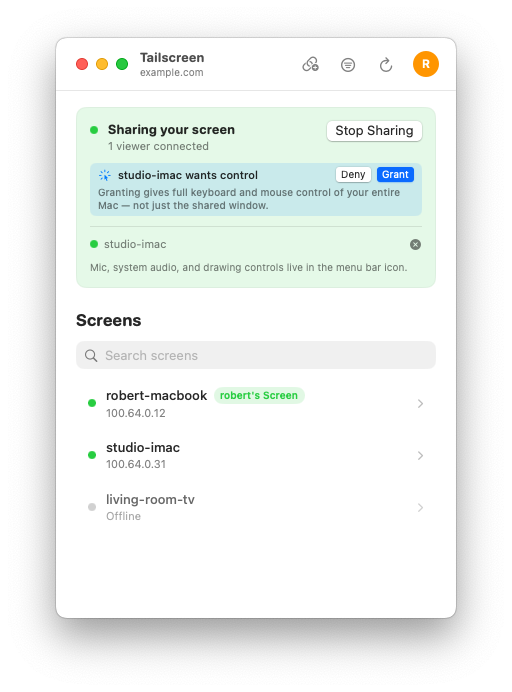
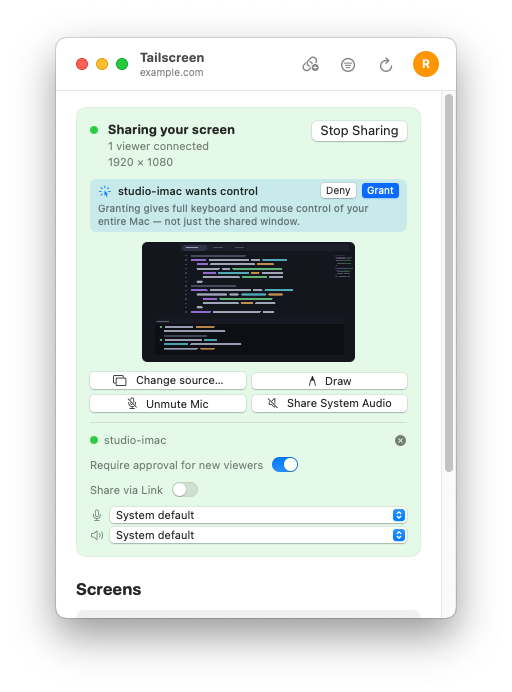
docs: refresh the macOS sharing screenshot
The window's share card now carries the whole sharing view — live
preview, labelled session controls, the roster, the approval toggle and
the link controls — so the published shot no longer matched the app.
Replaces it with the capture from the Screenshots run on the commit that
merged (run 33864212922), and extends the alt text to name the preview
and the controls the picture gained.

Only this one shot changed: the change is confined to the card's sharing
state, and the hub, share-request and viewer shots are unaffected.

Claude-Session: https://claude.ai/code/session_014PmmqooV6TEvY49BgiJ3jR

Changed region(s): [[0.125, 0.1214, 0.9062, 0.8801]]

diff --git a/docs/index.md b/docs/index.md
@@ -161,7 +161,7 @@ Curious what&rsquo;s underneath?
 <figure class="ts-shot">
   <a href="{{ '/assets/screenshots/macos-sharing.png' | relative_url }}">
     <img src="{{ '/assets/screenshots/macos-sharing.png' | relative_url }}"
-         alt="The Tailscreen hub window while sharing, showing one viewer connected and a request from studio-imac for keyboard and mouse control with Deny and Grant buttons."
+         alt="The Tailscreen hub window while sharing, showing a live preview of the shared screen, the session controls, one viewer connected, and a request from studio-imac for keyboard and mouse control with Deny and Grant buttons."
          loading="lazy" decoding="async">
   </a>
   <figcaption><strong>Nothing without a grant.</strong> See who&rsquo;s
